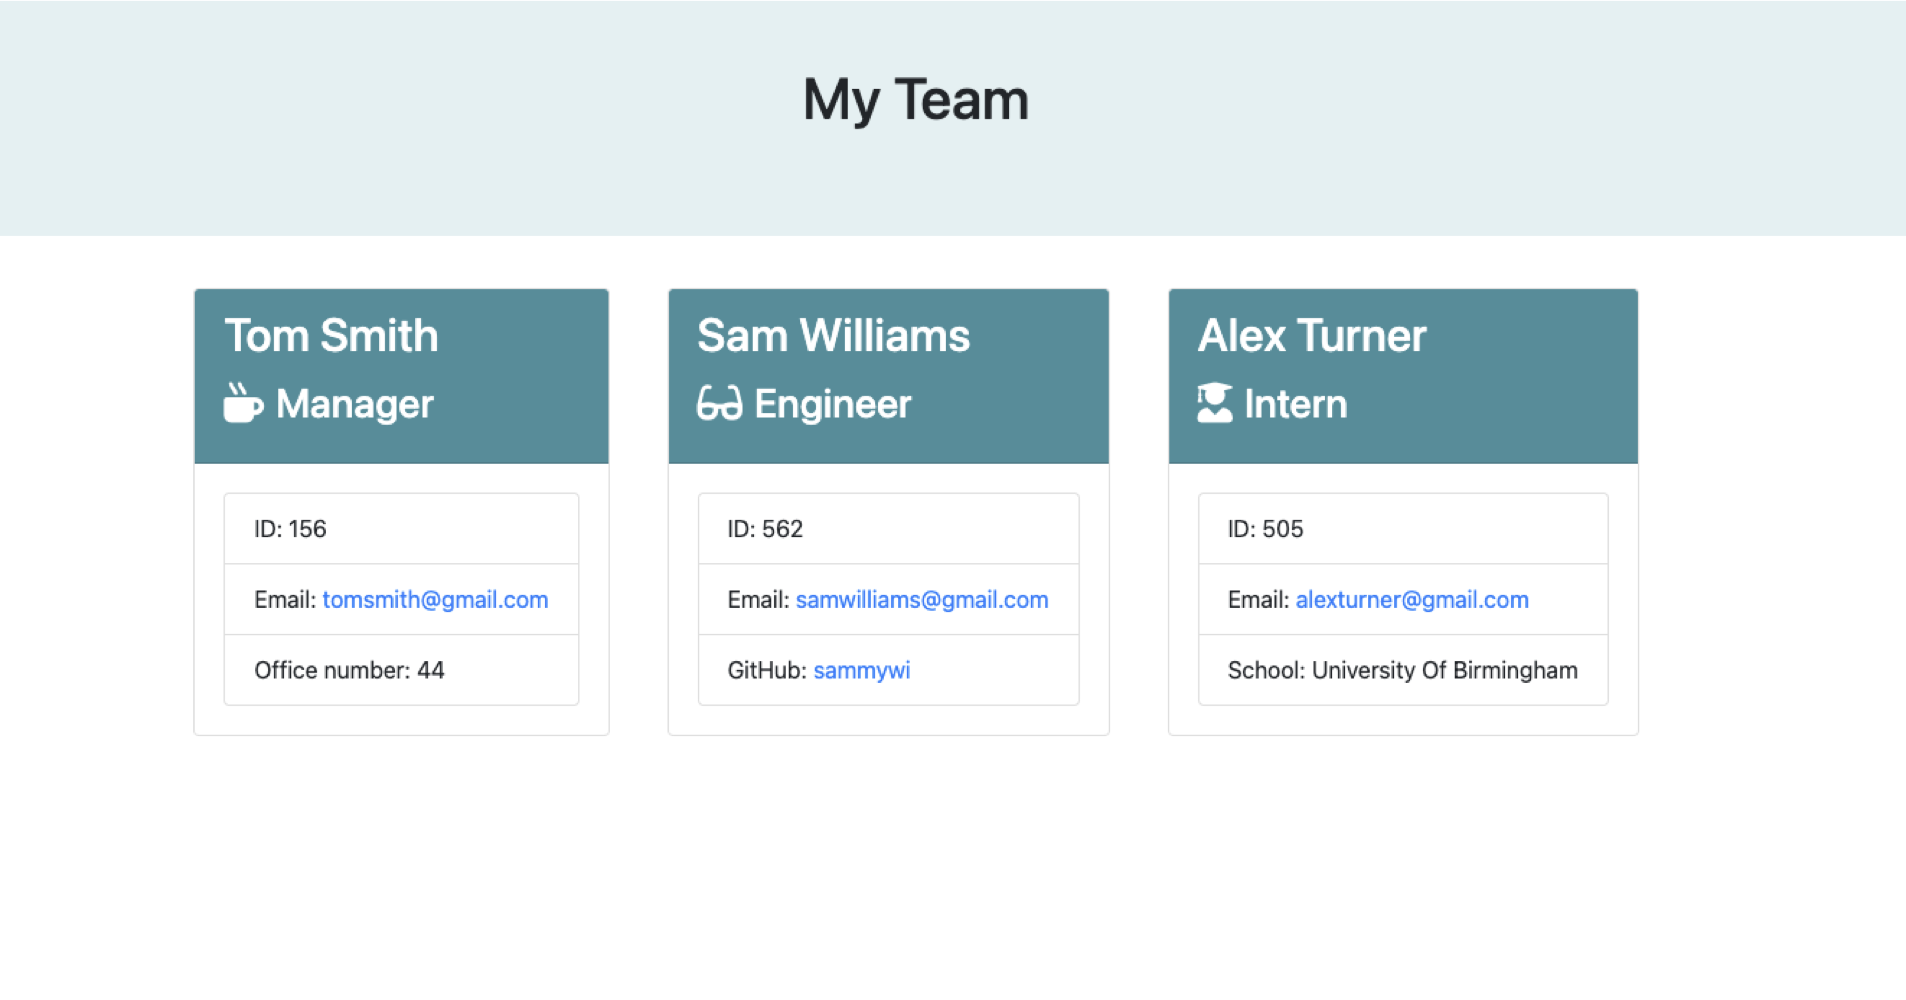
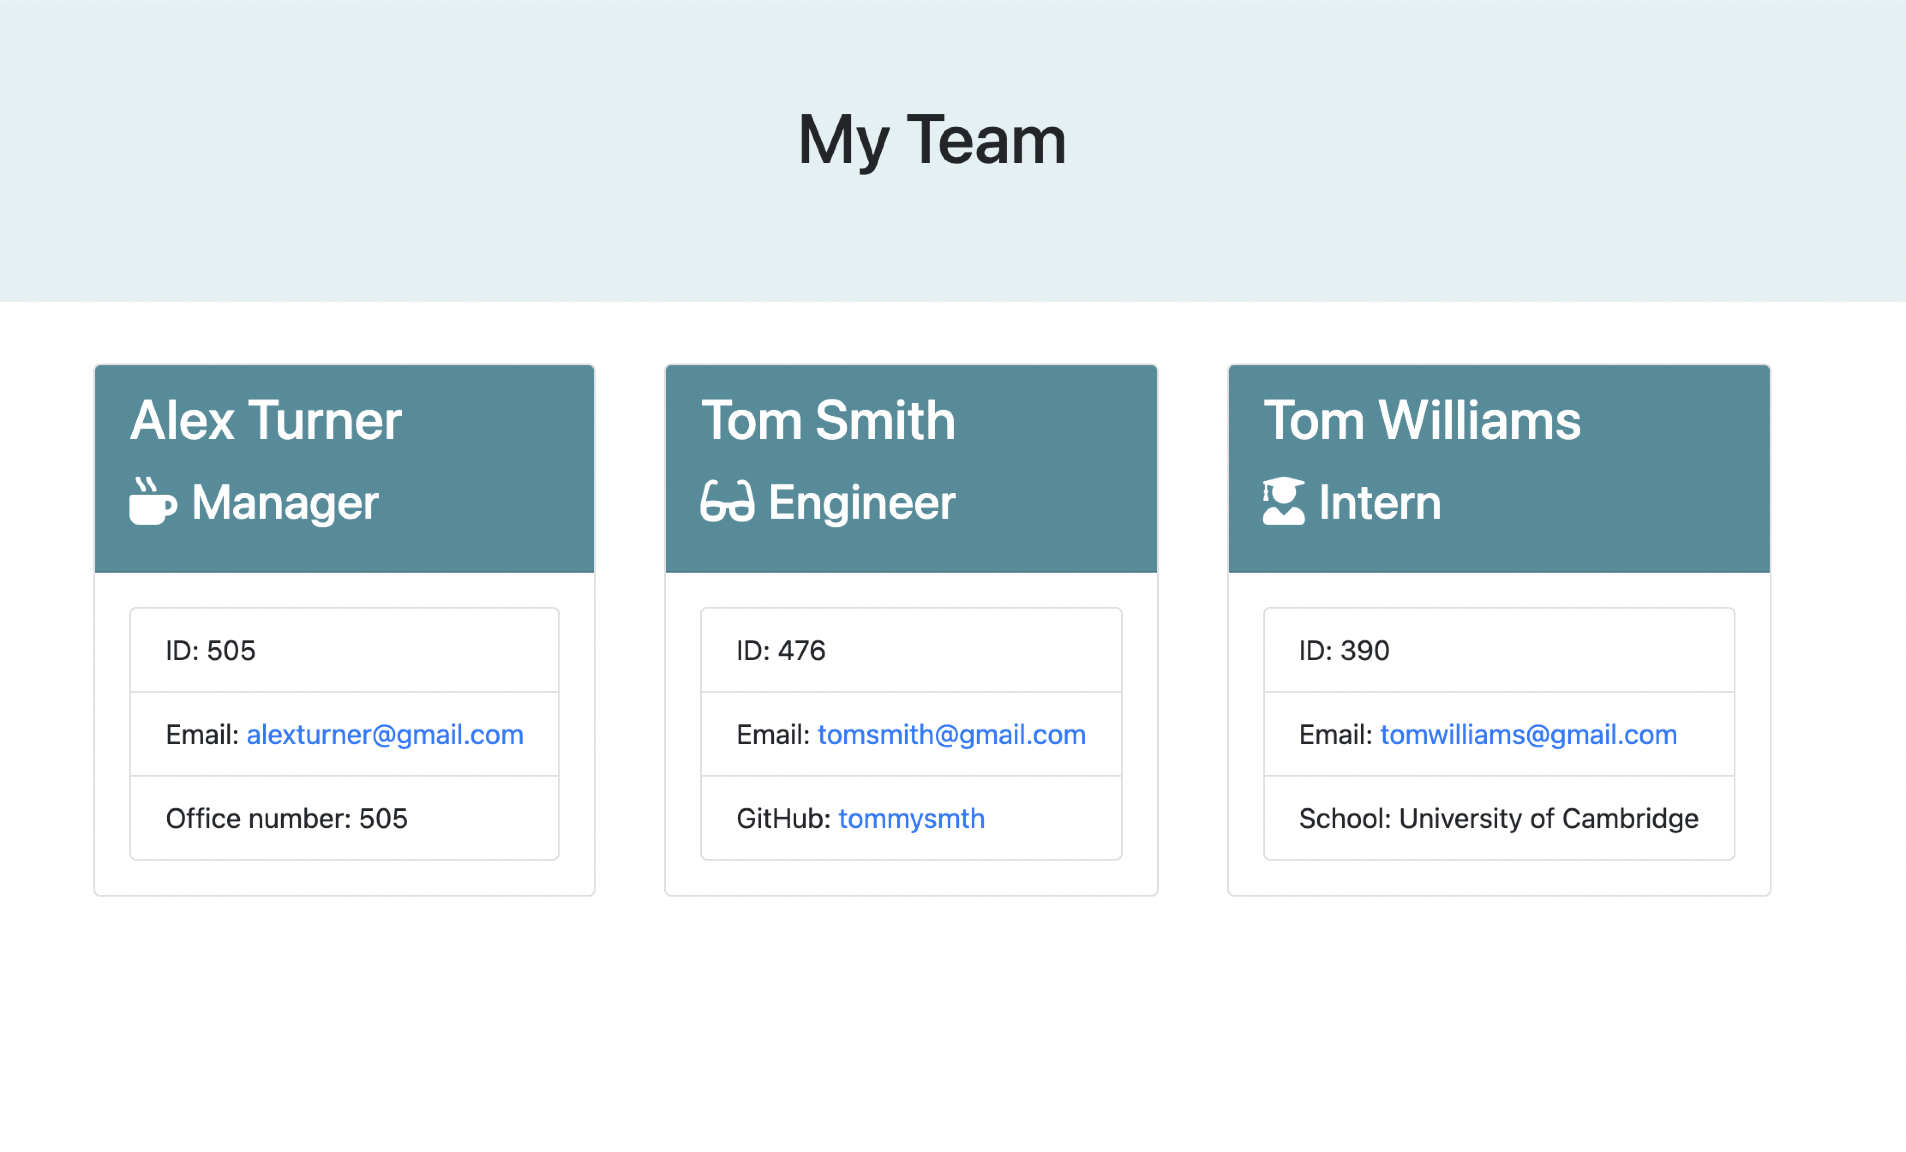
changed README file and added fixed js code

Changed region(s): [[0.0, 0.217, 1.0, 0.744], [0.6191, 0.558, 0.8977, 0.744], [0.4024, 0.062, 0.5572, 0.155]]

diff --git a/output/team.html b/output/team.html
@@ -27,42 +27,42 @@
                 
         <div class="card employee-card">
         <div class="card-header">
-            <h2 class="card-title">Tom Smith</h2>
+            <h2 class="card-title">Alex Turner</h2>
             <h3 class="card-title"><i class="fas fa-mug-hot mr-2"></i>Manager</h3>
         </div>
         <div class="card-body">
             <ul class="list-group">
-                <li class="list-group-item">ID: 156</li>
-                <li class="list-group-item">Email: <a href="mailto:tomsmith@gmail.com">tomsmith@gmail.com</a></li>
-                <li class="list-group-item">Office number: 44</li>
+                <li class="list-group-item">ID: 505</li>
+                <li class="list-group-item">Email: <a href="mailto:alexturner@gmail.com">alexturner@gmail.com</a></li>
+                <li class="list-group-item">Office number: 505</li>
             </ul>
         </div>
     </div>
         
         <div class="card employee-card">
     <div class="card-header">
-        <h2 class="card-title">Sam Williams</h2>
+        <h2 class="card-title">Tom Smith</h2>
         <h3 class="card-title"><i class="fas fa-glasses mr-2"></i>Engineer</h3>
     </div>
     <div class="card-body">
         <ul class="list-group">
-            <li class="list-group-item">ID: 562</li>
-            <li class="list-group-item">Email: <a href="mailto:samwilliams@gmail.com">samwilliams@gmail.com</a></li>
-            <li class="list-group-item">GitHub: <a href="https://github.com/sammywi" target="_blank" rel="noopener noreferrer">sammywi</a></li>
+            <li class="list-group-item">ID: 476</li>
+            <li class="list-group-item">Email: <a href="mailto:tomsmith@gmail.com">tomsmith@gmail.com</a></li>
+            <li class="list-group-item">GitHub: <a href="https://github.com/tommysmth" target="_blank" rel="noopener noreferrer">tommysmth</a></li>
         </ul>
     </div>
 </div>
         
         <div class="card employee-card">
     <div class="card-header">
-        <h2 class="card-title">Alex Turner</h2>
+        <h2 class="card-title">Tom Williams</h2>
         <h3 class="card-title"><i class="fas fa-user-graduate mr-2"></i>Intern</h3>
     </div>
     <div class="card-body">
         <ul class="list-group">
-            <li class="list-group-item">ID: 505</li>
-            <li class="list-group-item">Email: <a href="mailto:alexturner@gmail.com">alexturner@gmail.com</a></li>
-            <li class="list-group-item">School: University Of Birmingham</li>
+            <li class="list-group-item">ID: 390</li>
+            <li class="list-group-item">Email: <a href="mailto:tomwilliams@gmail.com">tomwilliams@gmail.com</a></li>
+            <li class="list-group-item">School: University of Cambridge</li>
         </ul>
     </div>
 </div>

diff --git a/index.js b/index.js
@@ -21,7 +21,7 @@ const questionsManager = () => {
     {
         type: "input",
         name: "nameOfManager",
-        message: "What is your name?",
+        message: "Please enter the team's manager name:",
     },
     {
         type: "input",
@@ -40,7 +40,6 @@ const questionsManager = () => {
     },
    
 ]).then(answers => {
-    console.log(answers);
     const manager = new Manager(answers.nameOfManager, answers.managersID, answers.managersEmail, answers.officeNumber);
     teamMembers.push(manager);
     listMenu();
@@ -96,7 +95,6 @@ const questionsEngineer = () => {
         message: "What is the new engineer's GitHub username?",
     },
     ]).then(answers => {
-        console.log(answers);
         const engineer =  new Engineer(answers.nameOfEngineer, answers.engineersID, answers.engineersEmail, answers.engineersGithub);
         teamMembers.push(engineer);
         listMenu();
@@ -127,7 +125,6 @@ const questionsIntern = () => {
         message: "What is the new intern's School?",
     },
     ]).then(answers => {
-        console.log(answers);
         const intern = new Intern(answers.nameOfIntern, answers.internsID, answers.internsEmail, answers.internsSchool);
         teamMembers.push(intern);
         listMenu();

diff --git a/README.md b/README.md
@@ -6,11 +6,11 @@
   * [Usage](#usage)
   * [Contributing](#contributing)
   * [Tests](#test)
-  * [Questions](#questions)
   * [Licence](#licence)
 
   ## Description
   This is a command-line application that takes in information about employees on a software engineering team, then generates an HTML webpage that displays summaries for each person.
+
   ![Team-Profile](./assets/display.png "display")
 
   ## Installation
@@ -18,6 +18,7 @@
 
   ## Usage
   By answering questions you can create a Team Profile
+  
   ![Team-Profile](./assets/command-line.png "Usage")
 
   ## Contributing
